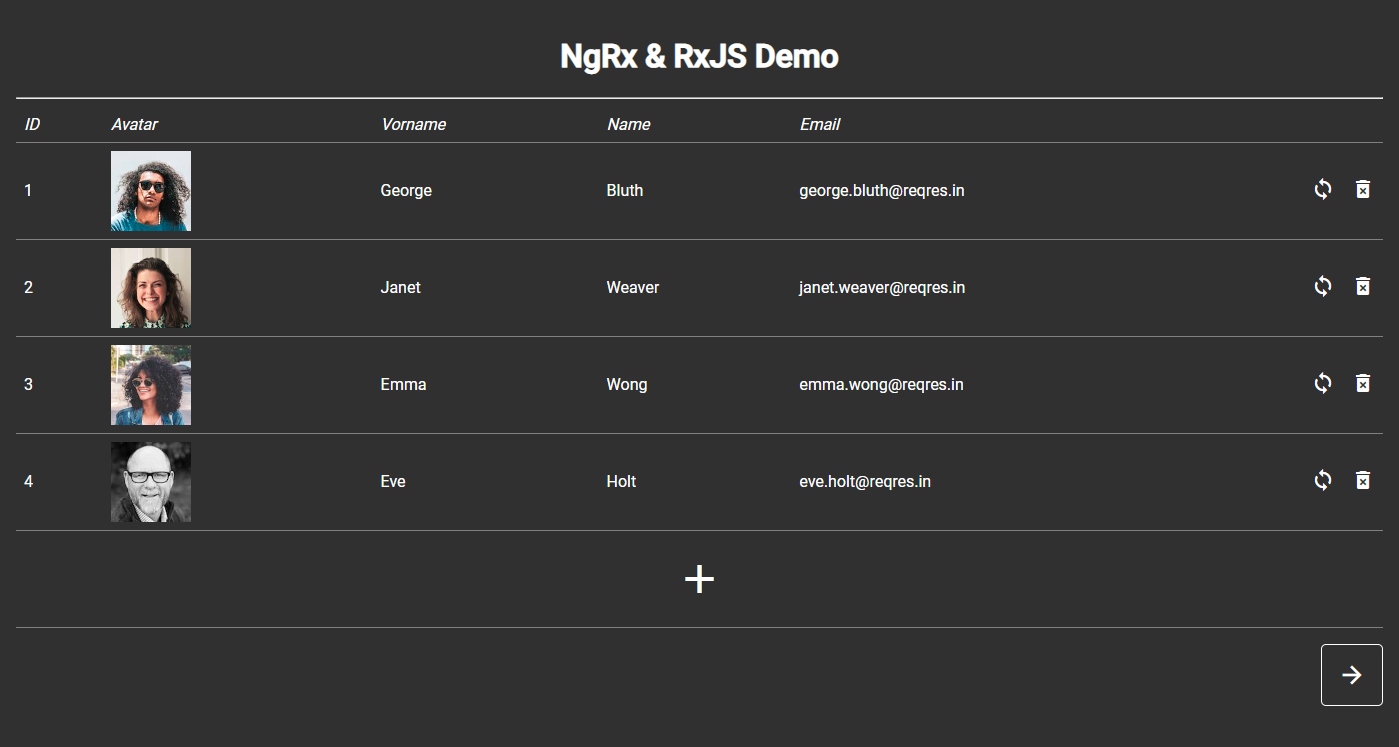
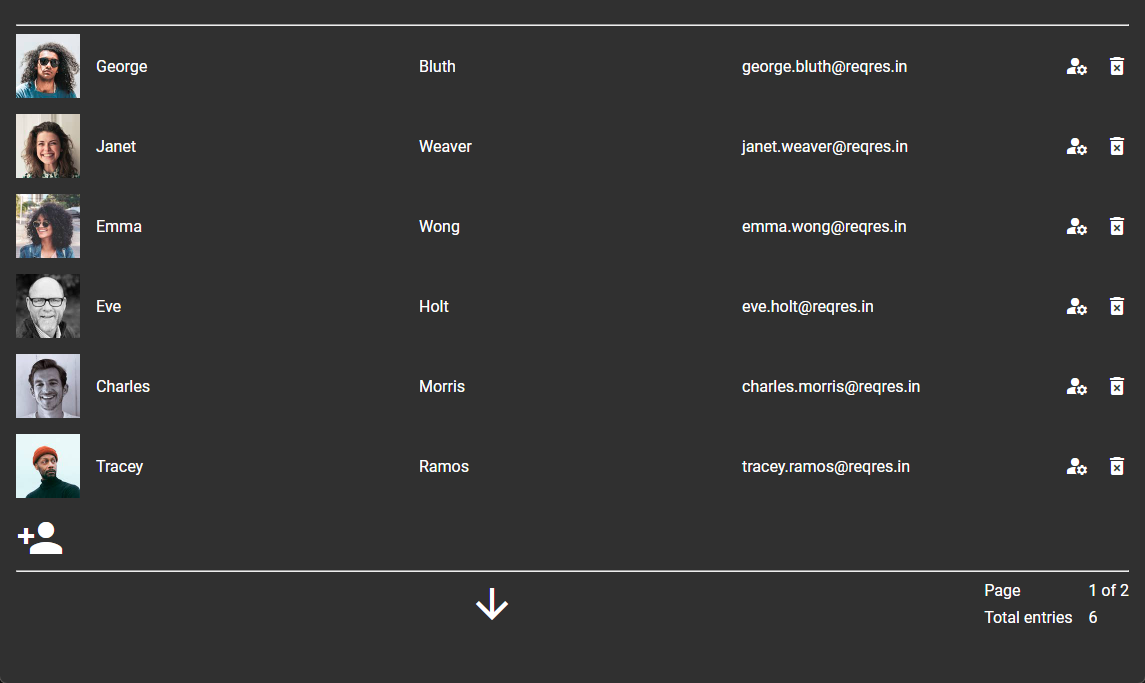
add user detail

diff --git a/src/app/components/user-detail/user-detail.component.ts b/src/app/components/user-detail/user-detail.component.ts
@@ -1,0 +1,41 @@
+import {NgForOf, NgIf} from "@angular/common";
+import {Component, OnInit} from '@angular/core';
+import {ActivatedRoute} from "@angular/router";
+import {Store} from "@ngrx/store";
+import {switchMap, take} from "rxjs";
+import {IUser, IUserListState, selectUserListUserById} from "../../+state/user-list";
+
+@Component({
+  selector: 'user-detail',
+  standalone: true,
+  imports: [
+    NgForOf,
+    NgIf
+  ],
+  templateUrl: './user-detail.component.html',
+  styleUrl: './user-detail.component.scss'
+})
+export class UserDetailComponent implements OnInit {
+  user: IUser | null = null;
+  protected readonly history = history;
+
+  constructor(
+    private readonly route: ActivatedRoute,
+    private readonly userListSate: Store<IUserListState>
+  ) { }
+
+  ngOnInit(): void {
+    this.initSubs();
+  }
+
+  private initSubs(): void {
+    this.route.paramMap
+      .pipe(
+        take(1),
+        switchMap(params =>
+          this.userListSate.select(selectUserListUserById(+(params.get('id') as string))))
+      ).subscribe(user => {
+        this.user = user ?? null;
+      });
+  }
+}

diff --git a/src/app/components/user-list/user-list.component.ts b/src/app/components/user-list/user-list.component.ts
@@ -1,5 +1,6 @@
 import { Component, OnInit } from '@angular/core';
 import {NgFor, NgIf, AsyncPipe, NgClass} from '@angular/common';
+import {Router} from "@angular/router";
 import {Store} from "@ngrx/store";
 import {
   IUserListState,
@@ -26,7 +27,8 @@ export class UserListComponent implements OnInit {
   userListTotalCount$ = this.userListStore.select(selectUserListTotalCount);
 
   constructor(
-    private readonly userListStore: Store<IUserListState>
+    private readonly userListStore: Store<IUserListState>,
+    private readonly router: Router
   ) { }
 
   ngOnInit(): void {
@@ -44,5 +46,9 @@ export class UserListComponent implements OnInit {
 
   addRadomUserClick() {
     this.userListStore.dispatch(UserListActions.addRandomUser());
+  }
+
+  async onDetailClick(id: number | undefined) {
+    await this.router.navigate([`user/${id}`]);
   }
 }

diff --git a/src/main.ts b/src/main.ts
@@ -1,4 +1,5 @@
 import {isDevMode} from '@angular/core';
+import {provideRouter} from "@angular/router";
 import {provideEffects} from "@ngrx/effects";
 import {UserListEffects, userListReducer} from "./app/+state/user-list";
 import { AppComponent } from './app/app.component';
@@ -6,10 +7,12 @@ import { withInterceptorsFromDi, provideHttpClient } from '@angular/common/http'
 import {provideStoreDevtools} from '@ngrx/store-devtools';
 import {provideStore} from '@ngrx/store';
 import {bootstrapApplication } from '@angular/platform-browser';
+import {RouterPaths} from "./app/configs";
 
 bootstrapApplication(AppComponent, {
   providers: [
     provideHttpClient(withInterceptorsFromDi()),
+    provideRouter(RouterPaths),
     provideStore({
       userListState: userListReducer,
     }),

diff --git a/src/app/components/user-detail/user-detail.component.scss b/src/app/components/user-detail/user-detail.component.scss
@@ -1,0 +1,32 @@
+article {
+  display: grid;
+  grid-template-columns: min-content 1fr;
+  column-gap: 1rem;
+  border: solid 1px #ccc;
+  border-radius: 5px;
+  width: min-content;
+  padding: 1rem;
+  margin-bottom: 1rem;
+
+  >div {
+    display: grid;
+    grid-template-columns: min-content 1fr;
+    column-gap: 1rem;
+    row-gap: 0.5rem;
+    span {
+      white-space: nowrap;
+    }
+  }
+}
+
+a {
+  display: grid;
+  grid-template-columns: min-content min-content;
+  column-gap: 0.5rem;
+  align-items: center;
+  cursor: pointer;
+
+  &:hover {
+    opacity: 0.5;
+  }
+}

diff --git a/src/app/app.component.ts b/src/app/app.component.ts
@@ -1,4 +1,5 @@
 import { Component } from '@angular/core';
+import {RouterOutlet} from "@angular/router";
 import { UserListComponent } from './components/user-list/user-list.component';
 
 @Component({
@@ -6,8 +7,6 @@ import { UserListComponent } from './components/user-list/user-list.component';
     templateUrl: './app.component.html',
     styleUrls: ['./app.component.scss'],
     standalone: true,
-    imports: [UserListComponent]
+  imports: [UserListComponent, RouterOutlet]
 })
-export class AppComponent {
-  title = 'ngrx-rxjs-demo';
-}
+export class AppComponent { }

diff --git a/src/app/components/user-list/user-list.component.html b/src/app/components/user-list/user-list.component.html
@@ -5,12 +5,13 @@
     <span>{{user.first_name}}</span>
     <span>{{user.last_name}}</span>
     <span>{{user.email}}</span>
+    <a (click)="onDetailClick(user?.id)" class="material-icons"> manage_accounts </a>
     <a (click)="onDeleteClick(user?.id)" class="material-icons"> delete_forever </a>
   </section>
   <section class="action">
     <a (click)="addRadomUserClick()"
        class="material-icons"
-       title="Add random User">add</a>
+       title="Add random User">person_add</a>
   </section>
 </div>
 <hr>

diff --git a/src/app/services/req-res-api.service.ts b/src/app/services/req-res-api.service.ts
@@ -14,7 +14,6 @@ export class ReqResApiService {
     private readonly httpClient: HttpClient
   ) { }
 
-
   getUserListByPage(page: number): Observable<IUserListResponse> {
     const url = `${this._usersUrl}?page=${page}`;
     return this.httpClient.get<IUserListResponse>(url);
@@ -23,6 +22,5 @@ export class ReqResApiService {
   getUserById(id: number): Observable<{data: IUser}> {
     const url = `${this._usersUrl}/${id}`;
     return this.httpClient.get<{data: IUser}>(url);
-
   }
 }

diff --git a/src/app/configs/router-paths.ts b/src/app/configs/router-paths.ts
@@ -1,0 +1,16 @@
+import {Routes} from "@angular/router";
+import {UserListComponent} from "../components/user-list/user-list.component";
+
+export const RouterPaths: Routes = [
+  {
+    path: 'users',
+    component: UserListComponent,
+  },
+  {
+    path: 'user/:id',
+    loadComponent: () => import('../components/user-detail/user-detail.component').then(m => m.UserDetailComponent)
+  },
+
+  // otherwise redirect to login
+  { path: '**', redirectTo: 'users', pathMatch: 'full' }
+]

diff --git a/src/app/components/user-detail/user-detail.component.html b/src/app/components/user-detail/user-detail.component.html
@@ -1,0 +1,13 @@
+<article *ngIf="user">
+  <img [src]="user.avatar" alt="avatar">
+  <div>
+    <span>ID</span><span>{{user.id}}</span>
+    <span>First name</span><span>{{user.first_name}}</span>
+    <span>Last name</span><span>{{user.last_name}}</span>
+    <span>Email</span><span>{{user.email}}</span>
+  </div>
+</article>
+<a (click)="history.back()">
+  <span class="material-icons">arrow_back</span>
+  <span>Back</span>
+</a>

diff --git a/src/app/components/user-list/user-list.component.scss b/src/app/components/user-list/user-list.component.scss
@@ -4,12 +4,14 @@
 
   section {
     display: grid;
-    grid-template-columns: 64px repeat(3, 1fr) min-content ;
+    grid-template-columns: 64px repeat(3, 1fr) min-content min-content;
     column-gap: 1rem;
     align-items: center;
 
     &.action {
-      justify-items: center;
+      a {
+        font-size: 3rem;
+      }
     }
   }
 }

diff --git a/src/app/+state/user-list/user-list.selectors.ts b/src/app/+state/user-list/user-list.selectors.ts
@@ -25,3 +25,8 @@ export const selectUserListTotalCount = createSelector(
   selectTotal,
   (total) => total
 );
+
+export const selectUserListUserById = (id: number) => createSelector(
+  selectEntities,
+  (entities) => entities[id]
+);

diff --git a/src/app/app.component.html b/src/app/app.component.html
@@ -1,1 +1,1 @@
-<user-list></user-list>
+<router-outlet></router-outlet>
